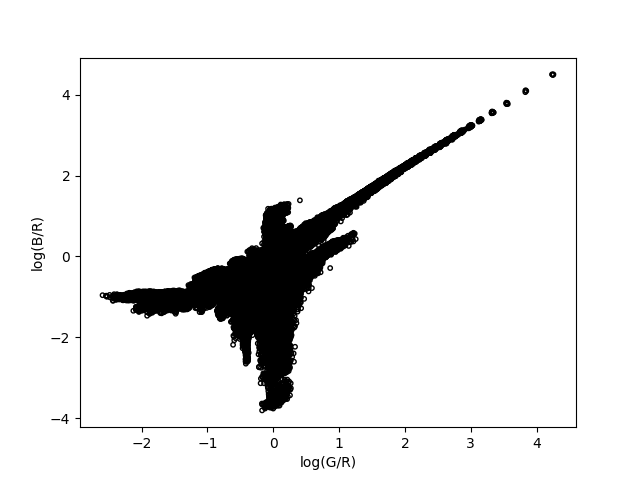
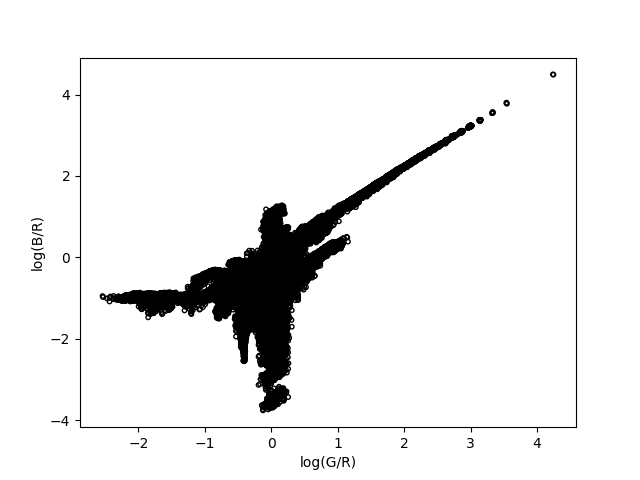
added geom mean chroma

diff --git a/src/process.py b/src/process.py
@@ -65,6 +65,43 @@ def calcImgChromaticity(imagesDict):
 
     return chromaDict
 
+    
+def calcImgGeoMeanChroma(imagesDict):
+    '''
+    Function to calculate the geometric mean chromaticity of each pixel in the image
+    @param imagesDict: dictionary of images {image name : np array}
+    @return: dictionary of image names and their 3D geometric mean chromaticity 
+        {image name : np array of (log(R/(R*G*B)), log(G/(R*G*B)), log(B/(R*G*B))) chromaticity }
+    '''
+    chromaDict = {}
+    # chi1 and chi2 are an orthonormal basis for the 2d plane
+    #   normal to the vector u = (1/srt(3))(1,1,1) - calculated by hand
+    chi1 = np.array((1.0/math.sqrt(2), -1.0/math.sqrt(2), 0))
+    chi2 = np.array((1.0/math.sqrt(6), 1.0/math.sqrt(6), -math.sqrt(2)/math.sqrt(3)))
+    for key in imagesDict: 
+        bgrImage = imagesDict[key]
+        height, width, depth = bgrImage.shape
+        chroma = np.zeros((height, width, 2), dtype=float)
+        for row in range(height): 
+            for col in range(width): 
+                pixel = bgrImage[row, col]
+                # add 1 to avoid divide by zero and log(0) errors
+                b, g, r = pixel[0]+1, pixel[1]+1, pixel[2]+1 
+                M = math.pow(b*g*r*1.0, 1/3) # geometric mean divisor
+
+                # compute rho values with geometric mean divisor 
+                rb = math.log(b*1.0 / M)
+                rg = math.log(g*1.0 / M)
+                rr = math.log(r*1.0 / M)
+
+                # compute 2d chroma space by projecting onto chi1 and chi2
+                chroma[row, col, 0] = rb*chi1[0] + rg*chi1[1] + rr*chi1[2]                
+                chroma[row, col, 1] = rb*chi2[0] + rg*chi2[1] + rr*chi2[2]                
+        
+        chromaDict[key] = chroma
+
+    return chromaDict
+
 
 def removeDuplicateChromaticities(chromaDict): 
     '''
@@ -138,18 +175,19 @@ def project(theta: int, chromas: np.ndarray) -> np.ndarray:
     return projected
 
 def entropy(chromas: np.ndarray) -> float:
+    ''' Computes entropy of an ndarray as specified in Finlayson.
+        Unlike in Finlayson, we do not excise data below the 5th
+        above the 95th percentile, but rather keep the whole array.
+        @param chromas: ndarray of 1d chromaticies (after projection)
+        @return: entropy as a float
+    '''
     hist = np.histogram(chromas, bins=64)[0]
-    #print(f"Histogram: {hist}")
     sum_bins = hist.sum()
-    #print(f"Histogram sum: {sum_bins}")
     px = hist/sum_bins
     px = np.sort(px)
     px = np.trim_zeros(px)
-    #print(f"Probability hist: {px}")
     px = -px*np.log2(px)
-    #print(f"Probability hist: {px}")
     entropy = px.sum()
-    #print(f"Entropy = {entropy}")
     return entropy
 
 

diff --git a/src/finlayson.py b/src/finlayson.py
@@ -10,9 +10,12 @@ from decimal import Decimal
 import cv2
 import math 
 
+#OFFSET = 0.20
+OFFSET = 0.0
+
 def main(): 
     print(f"Reading images...")
-    images = p.readimgs("./imgs/natephonePen")
+    images = p.readimgs("./imgs")
 
 #    for key in images: 
 #        image = images[key]
@@ -21,9 +24,10 @@ def main():
 #        images[key] = image
 #        print(f"Image shape: {image.shape}")
 
-#    print(f"Calculating chromas for {key}...")
-    chromas = p.calcImgChromaticity(images)
-#    print(f"Removing duplicate chromas for {key}...")
+    print(f"Calculating chromas...")
+#    chromas = p.calcImgChromaticity(images)
+    chromas = p.calcImgGeoMeanChroma(images)
+    print(f"Removing duplicate chromas...")
 
     unique_chromas = {}
     for key in chromas:
@@ -65,13 +69,16 @@ def main():
         print(f"max = {fg_max}, min = {fg_min}")
         diff = abs(fg_max - fg_min)
         flat_gray = flat_gray - fg_min
-        flat_gray = flat_gray * (1.0 / diff)
+        flat_gray = flat_gray * ((1.0) / diff)
         fg_min = flat_gray.min()
         fg_max = flat_gray.max()
-        print(f"max = {fg_max}, min = {fg_min}")
-        fg_int = flat_gray.astype(int)
-        un, cts = np.unique(fg_int, return_counts=True)
-        print(np.asarray((un,cts)).T)
+        print(f"1st adjustment max = {fg_max}, min = {fg_min}")
+        flat_gray = flat_gray * (1.0 - OFFSET)
+        flat_gray = flat_gray + OFFSET 
+        fg_min = flat_gray.min()
+        fg_max = flat_gray.max()
+        print(f"2nd adjustment max = {fg_max}, min = {fg_min}")
+
         gray_chromas[key] = np.reshape(flat_gray,(rows, cols))
 #gray_chromas[key] = np.reshape(fg_int,(rows, cols))
         print(f"Grayscale Shape: {gray_chromas[key].shape}")
@@ -81,9 +88,12 @@ def main():
 
         minEntropy = entropiesNp[minEntropyIdx][1]
         minEntProjections = projectionsByAngle[minEntropyIdx][1]
+        print(f"minEntProjections shape = {minEntProjections.shape}")
 
         rotated = p.rotate(-minEntropyTheta, minEntProjections)
         minEntProjectionsXY = rotated.transpose()
+
+        print(f"chroma shape: {unique_chromas[key].shape}, proj shape: {minEntProjectionsXY.shape}")
 
         c.chartOrigAndProjChromas(unique_chromas[key], minEntProjectionsXY, show = False, save=True, savefn=f"./out/{key}_origAndProjChromas.png")
         
@@ -92,3 +102,6 @@ def main():
 
 if __name__ == '__main__':
     main()
+#   fg_int = flat_gray.astype(int)
+#   un, cts = np.unique(fg_int, return_counts=True)
+#   print(np.asarray((un,cts)).T)

diff --git a/src/charting.py b/src/charting.py
@@ -51,6 +51,8 @@ def chartOrigAndProjChromas(orig, projected, show = True, save = False, savefn =
     yvals = projected[:, 1]
 
     plt.scatter(x = xvals, y = yvals, s = 10, facecolors = "none", edgecolors = "lightblue")
+    plt.xlabel("log(G/R)")
+    plt.ylabel("log(B/R)")
 
     z = np.polyfit(xvals, yvals, 1)
     p = np.poly1d(z)
